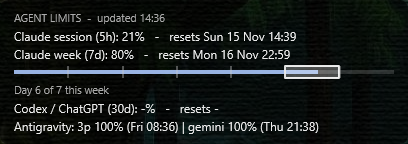
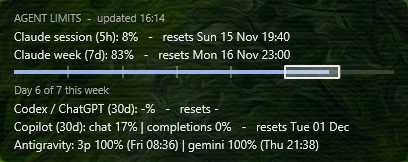
🤖 Add Copilot chat and completions quotas to Agent Limits
Read from GitHub's copilot_internal/user endpoint through the gh login,
cached for 10 minutes. Shown on the skin and in agents_window.py; the
skin is 18 px taller and the screenshot is retaken.

diff --git a/collect.py b/collect.py
@@ -8,6 +8,8 @@ Sources
     Claude session/week : Anthropic OAuth usage endpoint (token from ~/.claude/.credentials.json).
                           Cached; refreshed at most every CLAUDE_REFRESH_SECONDS.
     Codex               : newest ~/.codex/sessions rollout that contains rate_limits.
+    Copilot             : GitHub's copilot_internal/user endpoint, via the gh CLI login.
+                          Cached; refreshed at most every COPILOT_REFRESH_SECONDS.
     Antigravity         : antigravity.json, written by ~/.gemini/config/statusline.py from the
                           Antigravity TUI's status line feed (only while the TUI runs).
     Active task         : TaskNotes notes in the Obsidian vault whose timeEntries has an
@@ -41,6 +43,7 @@ CODEX_SESSIONS = Path.home() / ".codex" / "sessions"
 CONFIG = HERE / "config.json"  # machine-specific paths; see config.example.json
 SKIP_DIRS = {".obsidian", ".trash", ".git", ".venv", "__pycache__", "_rendered", "_templates", "_types", "_scripts"}
 CLAUDE_REFRESH_SECONDS = 3600
+COPILOT_REFRESH_SECONDS = 600
 
 
 def load_config():
@@ -136,6 +139,35 @@ def codex_limits():
             "log_modified": datetime.fromtimestamp(path.stat().st_mtime).isoformat(timespec="minutes"),
         }
     return None
+
+
+def copilot_limits(previous):
+    """Copilot monthly quotas (chat, completions...) from GitHub, reusing the cache when fresh.
+
+    Uses the gh CLI's login, so there is nothing to configure. Quotas that are unlimited or
+    not part of the plan are left out; returns None if gh is missing or not signed in.
+    """
+    cached = previous.get("copilot")
+    if cached and time.time() - cached.get("fetched_at", 0) < COPILOT_REFRESH_SECONDS:
+        return cached
+    try:
+        out = subprocess.run(
+            ["gh", "api", "copilot_internal/user"], capture_output=True, text=True, timeout=30, check=True,
+            creationflags=getattr(subprocess, "CREATE_NO_WINDOW", 0),
+        ).stdout
+        data = json.loads(out)
+    except (OSError, ValueError, subprocess.SubprocessError) as exc:
+        if cached:
+            return {**cached, "error": str(exc)[:120], "stale": True}
+        return None
+    quota = {}
+    for name, snap in (data.get("quota_snapshots") or {}).items():
+        if snap.get("unlimited") or not snap.get("has_quota") or not snap.get("entitlement"):
+            continue
+        quota[name] = {"used_percent": round(100 - float(snap.get("percent_remaining") or 0), 1),
+                       "entitlement": snap.get("entitlement"), "remaining": snap.get("remaining")}
+    return {"fetched_at": time.time(), "plan": data.get("copilot_plan"),
+            "resets_at": data.get("quota_reset_date"), "quota": quota}
 
 
 ANTIGRAVITY_FILE = HERE / "antigravity.json"
@@ -391,8 +423,16 @@ def antigravity_text(ag):
     return " | ".join(parts)
 
 
+def copilot_text(copilot):
+    """One line for the skin: each quota as 'name used%', e.g. 'chat 17% | completions 0%'."""
+    quota = (copilot or {}).get("quota") or {}
+    if not quota:
+        return "no data (sign in with gh)"
+    return " | ".join(f"{name} {percent_text(q.get('used_percent'))}%" for name, q in quota.items())
+
+
 def agent_variables(state):
-    """Skin variables for the Claude, Codex and Antigravity limits (AgentUsage.ini)."""
+    """Skin variables for the Claude, Codex, Copilot and Antigravity limits (AgentUsage.ini)."""
     claude = state.get("claude") or {}
     session = claude.get("five_hour") or {}
     week = claude.get("seven_day") or {}
@@ -410,6 +450,8 @@ def agent_variables(state):
         f"WeekDayW={bar['day_w']}",
         f"CodexPct={percent_text(codex.get('used_percent'))}",
         f"CodexReset={rainmeter_text(reset_label(codex.get('resets_at')))}",
+        f"CopilotText={rainmeter_text(copilot_text(state.get('copilot')))}",
+        f"CopilotReset={rainmeter_text(reset_label((state.get('copilot') or {}).get('resets_at'), '%a %d %b'))}",
         f"AntigravityText={rainmeter_text(antigravity_text(antigravity))}",
     ]
 
@@ -449,6 +491,7 @@ def main():
         "updated": datetime.now(UTC).isoformat(timespec="seconds"),
         "claude": claude_usage(previous),
         "codex": codex_limits(),
+        "copilot": copilot_limits(previous),
         "antigravity": antigravity_limits(),
         "task": focus_task() or active_task() or timetagger_running() or time_block_now(),
     }

diff --git a/agents_window.py b/agents_window.py
@@ -1,4 +1,4 @@
-"""Coding-agent limits window (Claude session/week, Codex, Antigravity quota buckets).
+"""Coding-agent limits window (Claude session/week, Codex, Copilot, Antigravity quota buckets).
 
 A normal window, so Windows keeps it on the virtual desktop where you put it.
 Re-runs collect.py every REFRESH_MINUTES and redraws from state.json.
@@ -114,6 +114,10 @@ class App:
         self.bar_codex.pack(anchor="w", pady=(2, 2))
         self.codex_reset = self.label("", MUTED, 8)
         self.label("", BG, 4)
+        self.label("COPILOT", MUTED, 8, True)
+        self.copilot_box = tk.Frame(self.frame, bg=BG)
+        self.copilot_box.pack(fill="x", anchor="w")
+        self.label("", BG, 4)
         self.label("ANTIGRAVITY", MUTED, 8, True)
         self.ag_box = tk.Frame(self.frame, bg=BG)
         self.ag_box.pack(fill="x", anchor="w")
@@ -145,18 +149,38 @@ class App:
             text=f"{until(codex.get('resets_at'))}  ·  from log {log_age}" if codex else "no Codex data"
         )
 
+        self.redraw_copilot(state.get("copilot") or {})
         self.redraw_antigravity(state.get("antigravity") or {})
 
         notes = []
         ag_seen = (state.get("antigravity") or {}).get("updated_at")
         if ag_seen:
             notes.append("Antigravity from TUI " + datetime.fromtimestamp(ag_seen).strftime("%d %b %H:%M"))
+        if (state.get("copilot") or {}).get("stale"):
+            notes.append("Copilot data is stale")
         if claude.get("stale"):
             notes.append("Claude data is stale")
         if claude.get("error") and not claude.get("five_hour"):
             notes.append(f"Claude: {claude['error']}")
         updated = state.get("updated", "never")
         self.footer.config(text=("  ·  ".join(notes + [f"updated {updated[:16].replace('T', ' ')} UTC"])))
+
+    def redraw_copilot(self, copilot):
+        """One bar per monthly quota (chat, completions...); all share the plan's reset date."""
+        for child in self.copilot_box.winfo_children():
+            child.destroy()
+        quota = copilot.get("quota") or {}
+        if not quota:
+            self.label_in(self.copilot_box, "no data (sign in with gh)", MUTED, 8)
+            return
+        for name, bucket in quota.items():
+            pct = bucket.get("used_percent")
+            used = (bucket.get("entitlement") or 0) - (bucket.get("remaining") or 0)
+            self.label_in(self.copilot_box, f"{name.replace('_', ' ').title()}: {_pct(pct)}  ({used} of {bucket.get('entitlement')})", FG, 10)
+            bar = Bar(self.copilot_box)
+            bar.set(pct)
+            bar.pack(anchor="w", pady=(2, 2))
+        self.label_in(self.copilot_box, f"resets {copilot.get('resets_at') or '-'}", MUTED, 8)
 
     def redraw_antigravity(self, ag):
         """One bar and reset line per quota bucket; rebuilt each redraw since the buckets vary."""

diff --git a/README.rst b/README.rst
@@ -20,7 +20,8 @@ config, all in the ``DesktopDashboard`` group.
 
 **Agent Limits** (``AgentUsage``)
     Claude session (5 h) and week (7 d) usage, Codex / ChatGPT usage and reset
-    times, with a 7-day bar marking each day, and Antigravity quota buckets.
+    times, with a 7-day bar marking each day, Copilot chat and completions
+    usage (needs the ``gh`` CLI signed in), and Antigravity quota buckets.
     While it is loaded, it re-runs ``collect.py`` (through ``uvw``) whenever
     the data is more than 5 minutes old, so nothing else needs to be running.
 

diff --git a/CHANGELOG.rst b/CHANGELOG.rst
@@ -1,6 +1,9 @@
 Changelog
 =========
 
+- :feature:`-` Add Copilot to Agent Limits: monthly chat and completions
+  usage and the reset date, read from GitHub through the ``gh`` CLI login
+  (cached for 10 minutes). It is on the skin and in ``agents_window.py``.
 - :feature:`-` Restyle the VU meters to match the Classic Clock: a bevelled,
   beaded brass frame under the same light and drop shadow, and a cream face
   seen through a window in a brass faceplate that hides the pivot and lamp.
